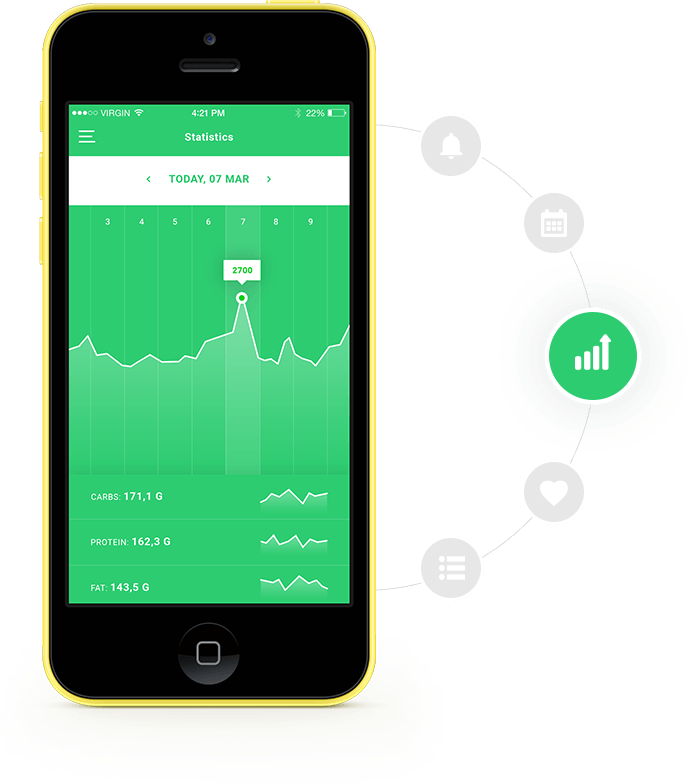
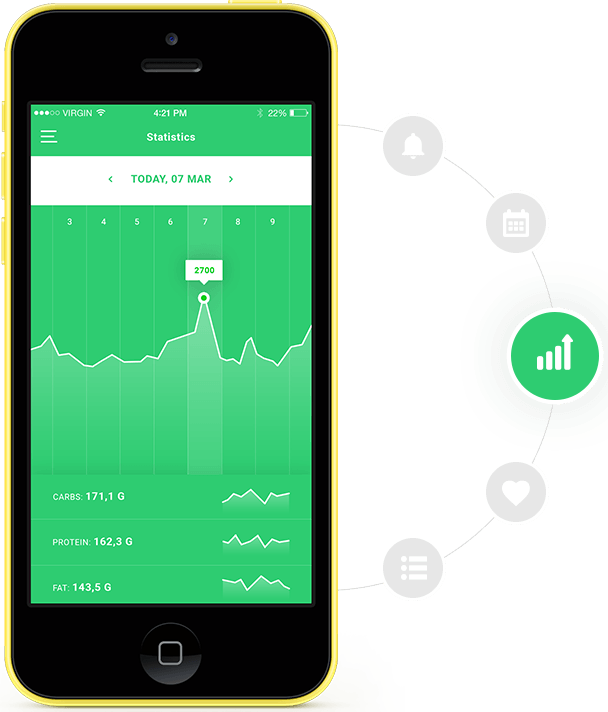
Стилизовал features и plan-diet

Changed region(s): [[0.0, 0.0, 0.5625, 1.0], [0.7812, 0.3708, 1.0, 0.5871], [0.375, 0.6798, 0.4688, 0.7107]]

diff --git a/src/less/style.less b/src/less/style.less
@@ -48,15 +48,34 @@ body {
 }
 
 .page-header {
+  position: relative;
   min-height: 900px;
-  background-image: url('../img/header-iphone.png'), url('../img/header-bg.jpg');
+  background-image: url('../img/header-bg.jpg');
   background-repeat: no-repeat;
   background-size: 100% 900px;
-  background-position: right, center;
+  background-position: center;
+  margin-bottom: 92px;
+
+  &::after {
+    content: "";
+    position: absolute;
+    bottom: -55px;
+    left: 50%;
+    transform: translateX(-50%);
+    width: 155px;
+    height: 185px;
+    background-image: url('../img/header-berry.png');
+    background-repeat: no-repeat;
+    background-position: center;
+  }
 
   &__wrapper {
     .container-fluid ();
-    padding: 33px 15px 0;
+    padding: 33px 15px 164px;
+    background-image: url('../img/header-iphone.png');
+    background-repeat: no-repeat;
+    background-size: 404px 753px;
+    background-position: bottom right;
   }
 }
 
@@ -178,5 +197,84 @@ body {
   &__appstore:active,
   &__googleplay:active {
     opacity: .4;
+  }
+}
+
+.features {
+  margin-bottom: 100px;
+
+  &__wrapper {
+    .container-fluid ();
+    width: 1234px;
+    display: flex;
+    justify-content: space-between;
+    align-items: center;
+  }
+
+  &__img {
+    width: 608px;
+    height: 712px;
+  }
+
+  &__description {
+    display: flex;
+    flex-direction: column;
+  }
+
+  &__title {
+    font-size: 48px;
+    line-height: 60px;
+    font-weight: 300;
+    color: #5a5a5a;
+    margin-bottom: 30px;
+
+    & span {
+      color: #2ecc71;
+    }
+  }
+
+  &__text {
+    font-size: 18px;
+    line-height: 32px;
+    font-weight: 300;
+    color: #5a5a5a;
+    max-width: 470px;
+  }
+}
+
+.plan-diet {
+  background-image: url('../img/plan-diet-bg.jpg');
+  background-repeat: no-repeat;
+  background-size: cover;
+  background-position: center;
+  margin-bottom: 150px;
+
+  &__wrapper {
+    .container-fluid ();
+    display: flex;
+    flex-direction: column;
+    align-items: center;
+    padding: 115px 0 655px;
+    max-width: 850px;
+  }
+
+  &__title {
+    font-size: 48px;
+    line-height: 48px;
+    font-weight: 300;
+    color: #5a5a5a;
+    margin-bottom: 30px;
+
+    & span {
+      color: #2ecc71;
+    }
+  }
+
+  &__text {
+    font-size: 18px;
+    line-height: 32px;
+    font-weight: 300;
+    color: #5a5a5a;
+    text-align: center;
   }
 }

diff --git a/src/index.html b/src/index.html
@@ -46,9 +46,9 @@
     <section class="features">
       <h1 class="visually-hidden">Лучшее приложение для подсчета калорий!</h1>
       <div class="features__wrapper">
-        <img src="111" alt="Features" class="features__img">
+        <img class="features__img" src="img/features-img.png" alt="Features" width="608px" height="712px">
         <div class="features__description">
-          <b class="features__title">Best calorie counter app!</b>
+          <b class="features__title">Best calorie <span>counter app!</span></b>
           <p class="features__text">Lorem ipsum dolor sit amet, consectetur adipisicing elit, sed do eiusmod tempor incididunt ut labore et dolore magna aliqua. Ut enim ad minim veniam.</p>
         </div>
       </div>
@@ -56,7 +56,7 @@
     <section class="plan-diet">
       <h1 class="visually-hidden">Простой способ планировать свою диету!</h1>
       <div class="plan-diet__wrapper">
-        <b class="plan-diet__title">A simple way to plan your diet!</b>
+        <b class="plan-diet__title">A simple way to <span>plan your diet!</span></b>
         <p class="plan-diet__text">Lorem ipsum dolor sit amet, consectetur adipisicing elit, sed do eiusmod tempor incididunt ut labore et dolore magna aliqua. Ut enim ad minim veniam.</p>
       </div>
     </section>
